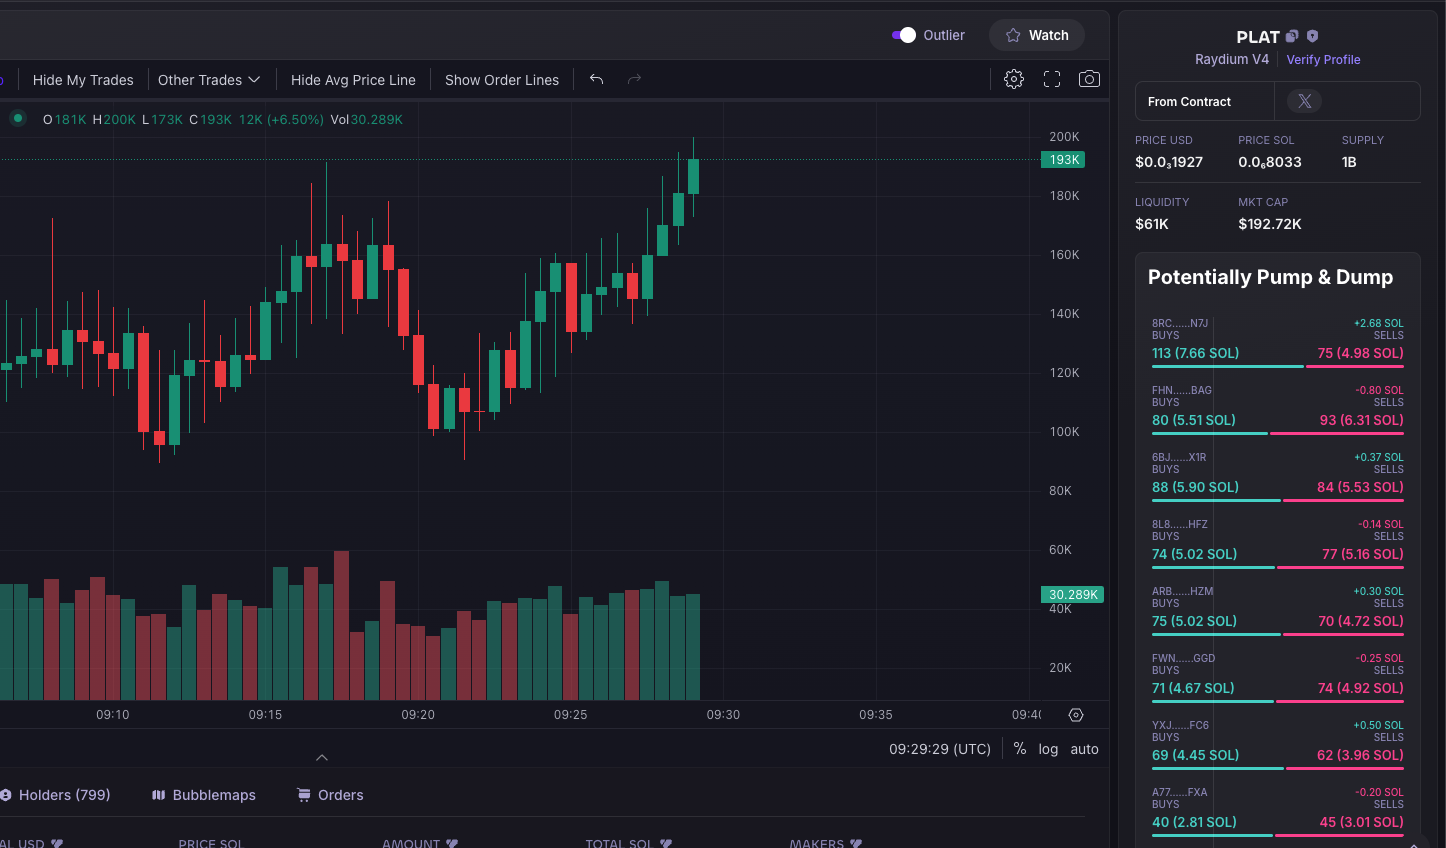
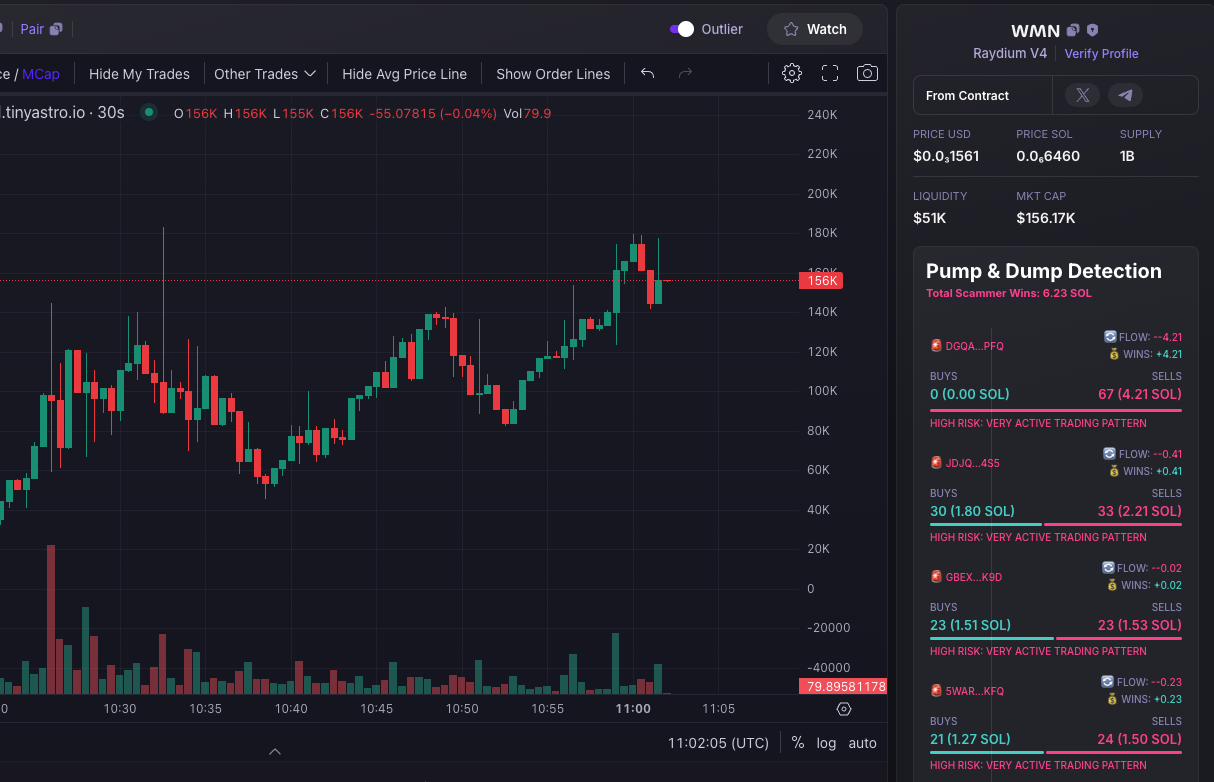
update pumpdump images with latest ui

diff --git a/README.md b/README.md
@@ -26,8 +26,8 @@ When you see somethign like this in the potential pump & dump section:
 _This chart shows a typical pump & dump pattern where price is artificially inflated before a sharp sell-off_
 
 Trust me, it will ALWAYS end up like this:
-![Pump and Dump Example](images/pumpdump-final.jpeg)
-_This chart shows the obvious end of the pump & dump pattern_
+![Pump and Dump Example](images/pumpdump-final.png)
+_This chart shows the obvious end of the pump & dump pattern, scammers walked away with over 40SOL.. YOUR MONEY!_
 
 ## Installation
 
@@ -74,11 +74,16 @@ exit-liquidity-shield/
 ├── manifest.json
 ├── popup.html
 ├── content.js
+├── background.js
+├── src/
+│   └── utils/
+│       ├── dom.js
+│       └── walletStats.js
+├── images/
+│   ├── pumpdump.png
+│   └── pumpdump-bottomfeeders.jpeg
 └── icons/
-├── icon16.png
-├── icon32.png
-├── icon48.png
-└── icon128.png
+    └── icon128.png
 ```
 
 ### Building from Source
@@ -95,14 +100,14 @@ git clone https://github.com/yourusername/exit-liquidity-shield.git
 ## Contributing
 
 1. Fork the repository
-2. Create your feature branch (\`git checkout -b feature/AmazingFeature\`)
-3. Commit your changes (\`git commit -m 'Add some AmazingFeature'\`)
-4. Push to the branch (\`git push origin feature/AmazingFeature\`)
+2. Create your feature branch (`git checkout -b feature/AmazingFeature`)
+3. Commit your changes (`git commit -m 'Add some AmazingFeature'`)
+4. Push to the branch (`git push origin feature/AmazingFeature`)
 5. Open a Pull Request
 
 ## License
 
-Distributed under the MIT License. See \`LICENSE\` for more information.
+Distributed under the MIT License. See `LICENSE` for more information.
 
 ## Security
 
